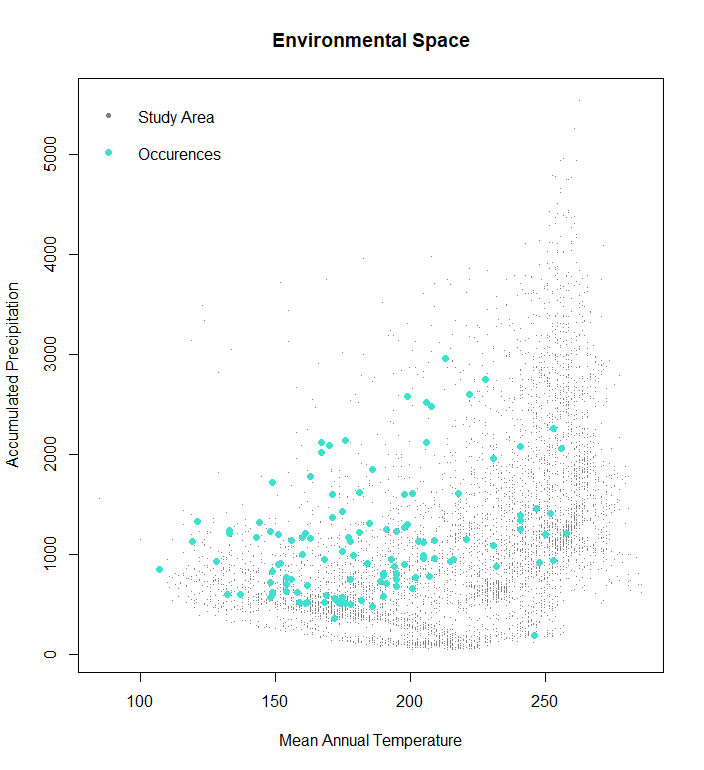
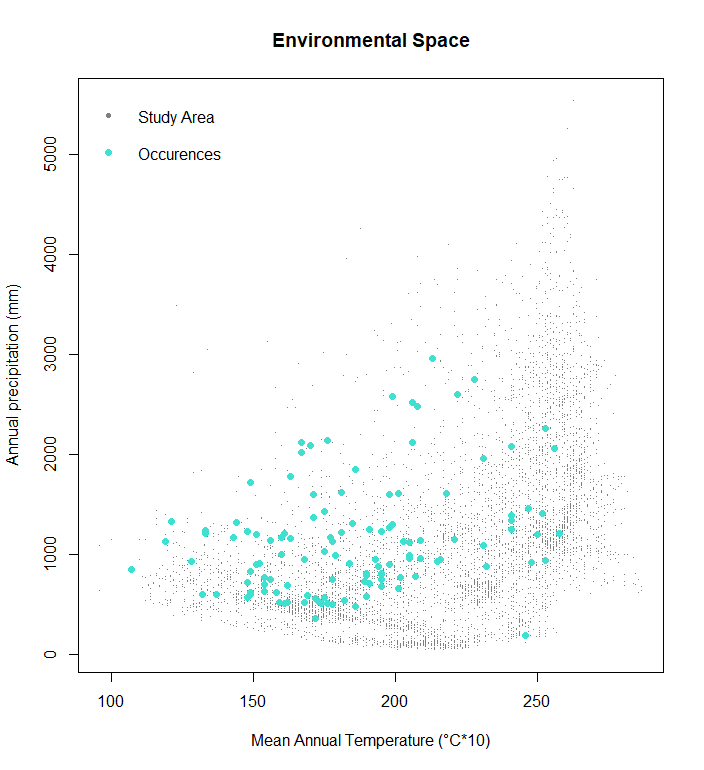
Tutorial sampolyM

diff --git a/Tutorials/Tutorial_sampolyM.html b/Tutorials/Tutorial_sampolyM.html
@@ -281,7 +281,7 @@ pal &lt;- c(&quot;grey50&quot;, &quot;turquoise&quot;)
 x11()
 #   use random points with environmental data for the plot
 plot(sam.Mpnts[,1], sam.Mpnts[,2], pch=&quot;.&quot;, col=pal[1], 
-     xlab=&quot;Mean Annual Temperature&quot;, ylab=&quot;Accumulated Precipitation&quot;, 
+     xlab=&quot;Mean Annual Temperature (°C*10)&quot;, ylab=&quot;Annual precipitation (mm)&quot;, 
      main=&quot;Environmental Space&quot;) 
 # add points of species environmental data
 points(occ$bio1, occ$bio12, pch=19, col=pal[2])
@@ -294,7 +294,7 @@ legend(x= &quot;topleft&quot;,
 <br />
 
 <div class="figure" style="text-align: center">
[2 lines of base64/hex data omitted]
 <p class="caption">
 Figure of the environmental space, where the occurrence points of <em>Catasticta nimbice</em> are plotted over a bunch of background points that were sampled from the rasterstack and polygon.
 </p>
